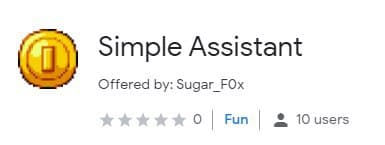
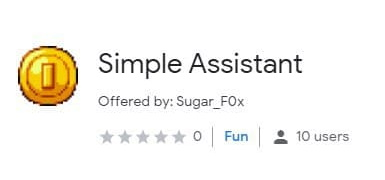
:hammer_and_wrench: Finally fix all the image problems including space reserve
> Use aspect-ration instead of min-hieght

diff --git a/components/archive/archive-item.vue b/components/archive/archive-item.vue
@@ -2,8 +2,7 @@
   v-card.d-flex.flex-column.text-center.card
     v-img.position-relative(
       :src="item.thumbnail"
-      min-height="100"
-      max-height="100"
+      aspect-ratio="2"
       )
       v-scroll-x-reverse-transition(origin="top right 0")
         v-hover(v-slot="{ hover }")

diff --git a/pages/details/_slug/index.vue b/pages/details/_slug/index.vue
@@ -50,7 +50,7 @@
               v-card
                 v-img(
                   :src="page.header"
-                  max-height="400"
+                  aspect-ratio="2"
                   )
             v-col.pb-0.pb-sm-1(cols="12")
               v-card(tag="article")
